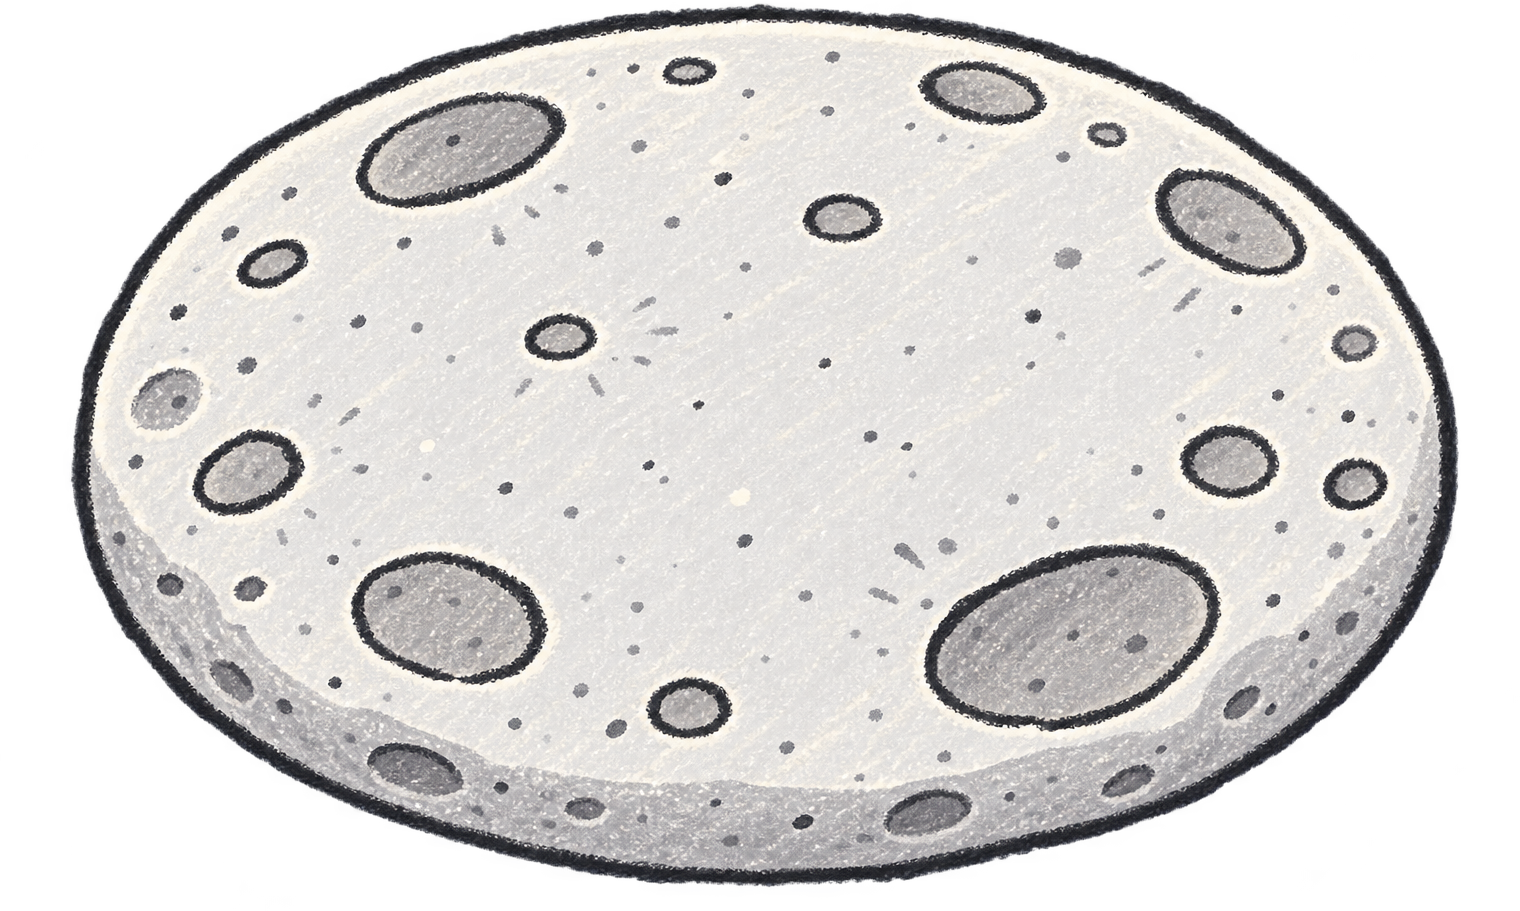
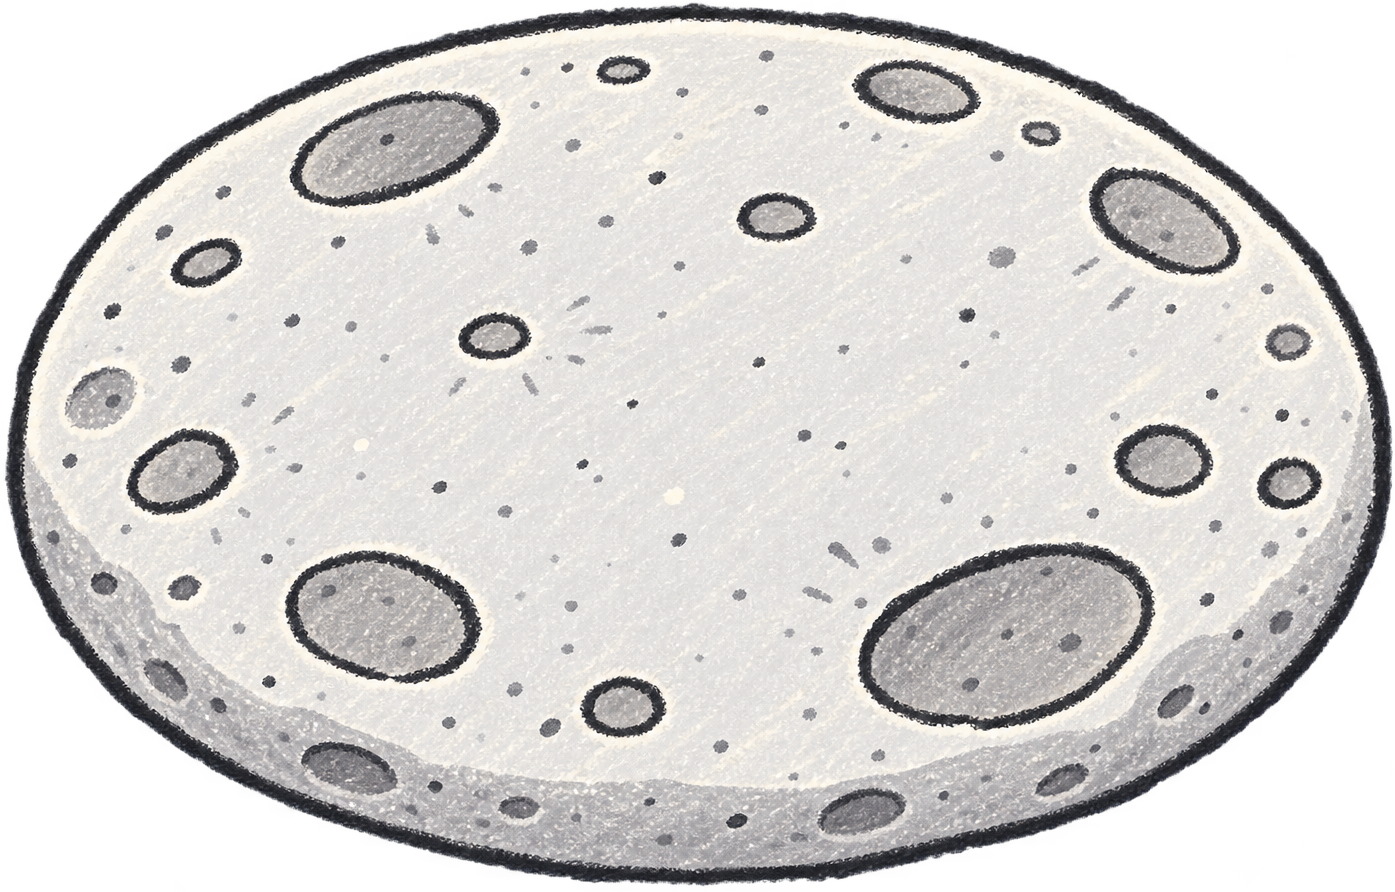
feat: Figma 기준 챕터 배치 반영

diff --git a/src/game/scenes/chapter/view.ts b/src/game/scenes/chapter/view.ts
@@ -1,11 +1,16 @@
-import { chapters, stageStatuses, type ChapterDefinition } from "../../stages";
-import { computeLayout } from "../../constellation/layout";
-import { renderConstellationSvg } from "../../constellation/render";
-import { createMoonDecor } from "../shared/moonDecor";
-import { createBackgroundStars } from "../shared/backgroundStars";
-import { createSceneTitle, createTitleStar } from "../shared/title";
-import styles from "./scene.module.css";
-import { backgroundUrl, chapterAssets, starNodeAssets } from "../../assets";
+import {
+  backgroundUrl,
+  chapterAssets,
+  chapterZodiacInactiveAssets,
+  starNodeAssets,
+} from "@/src/game/assets";
+import { computeLayout } from "@/src/game/constellation/layout";
+import { renderConstellationSvg } from "@/src/game/constellation/render";
+import { createBackgroundStars } from "@/src/game/scenes/shared/backgroundStars";
+import { createMoonDecor } from "@/src/game/scenes/shared/moonDecor";
+import { createSceneTitle, createTitleStar } from "@/src/game/scenes/shared/title";
+import styles from "@/src/game/scenes/chapter/scene.module.css";
+import { chapters, stageStatuses, type ChapterDefinition } from "@/src/game/stages";
 
 export function createChapterView(
   onMove: (offset: -1 | 1) => void,
@@ -100,25 +105,28 @@ function renderCard(
   card.tabIndex = enabled && chapter ? 0 : -1;
   card.setAttribute("aria-disabled", String(!enabled));
   card.setAttribute("aria-label", chapter ? `${chapter.sign} 챕터 선택` : "");
-  if (chapter) card.append(constellation(chapter, chapterIndex));
+  if (chapter) card.append(constellation(chapter, chapterIndex, enabled));
 }
-function constellation(chapter: ChapterDefinition, chapterIndex: number): SVGSVGElement {
+function constellation(
+  chapter: ChapterDefinition,
+  chapterIndex: number,
+  active: boolean,
+): SVGSVGElement {
   const layout = computeLayout(chapter.constellation, {
-    width: 450,
-    height: 600,
+    width: 478,
+    height: 560,
     padding: { top: 100, left: 40, right: 40, bottom: 230 },
-    emblemGap: 50,
-    labelGap: 45,
-    emblemSize: { width: 96, height: 80 },
+    emblemGap: 100,
+    emblemSize: { width: 110, height: 90 },
   });
   const svg = renderConstellationSvg(layout, {
     starUrl: starNodeAssets.gray,
-    starSize: 52,
-    lineClass: styles.line,
+    starSize: active ? 84 : 70,
+    lineClass: `${styles.line} ${active ? "" : styles.lineInactive}`,
   });
   const statuses = stageStatuses(chapterIndex);
   svg.querySelectorAll("image").forEach((star, index) => {
-    const cleared = statuses[index] === "cleared";
+    const cleared = active && statuses[index] === "cleared";
     star.setAttribute("href", cleared ? starNodeAssets.gold : starNodeAssets.gray);
     const glow = star.cloneNode() as SVGImageElement;
     glow.setAttribute("class", `${styles.glow} ${cleared ? styles.goldGlow : styles.grayGlow}`);
@@ -127,16 +135,14 @@ function constellation(chapter: ChapterDefinition, chapterIndex: number): SVGSVG
   svg.setAttribute("role", "img");
   svg.setAttribute("aria-label", `${chapter.sign} 별자리`);
   const emblem = document.createElementNS("http://www.w3.org/2000/svg", "image");
-  emblem.setAttribute("href", chapter.zodiacUrl);
+  emblem.setAttribute(
+    "href",
+    active ? chapter.zodiacUrl : chapterZodiacInactiveAssets[chapter.sign],
+  );
   emblem.setAttribute("x", String(layout.emblemAnchor.x));
   emblem.setAttribute("y", String(layout.emblemAnchor.y));
-  emblem.setAttribute("width", "96");
-  emblem.setAttribute("height", "80");
-  const name = document.createElementNS("http://www.w3.org/2000/svg", "text");
-  name.setAttribute("class", styles.name);
-  name.setAttribute("x", String(layout.labelAnchor.x));
-  name.setAttribute("y", String(layout.labelAnchor.y));
-  name.textContent = chapter.sign;
-  svg.append(emblem, name);
+  emblem.setAttribute("width", "110");
+  emblem.setAttribute("height", "90");
+  svg.append(emblem);
   return svg;
 }

diff --git a/src/game/assets.ts b/src/game/assets.ts
@@ -18,10 +18,10 @@ import bubbleNextUrl from "@/assets/button/button.bubble.webp";
 import decorStarSmallUrl from "@/assets/star/star.cross.small.webp";
 import decorStarMediumUrl from "@/assets/star/star.cross.medium.webp";
 import decorStarLargeUrl from "@/assets/star/star.cross.large.webp";
-import decorMoonUrl from "@/assets/moon/moon.circle.webp";
+import decorMoonUrl from "@/assets/moon/moon.eclipse.trimmed.webp";
 import decorMascotUrl from "@/assets/mascot/mascot.angle-135.webp";
-import { assetUrls } from "./features/presentation";
-import { chapters } from "./stages";
+import { assetUrls } from "@/src/game/features/presentation";
+import { chapters, type ZodiacSign } from "@/src/game/stages";
 
 export { backgroundUrl, plateButtonUrl, goalStarUrl };
 
@@ -45,6 +45,23 @@ export const chapterAssets = {
   arrowLeft: chapterArrowLeftUrl,
   arrowRight: chapterArrowRightUrl,
 } as const;
+
+export const chapterZodiacInactiveAssets: Record<ZodiacSign, string> = {
+  ARIES: new URL("@/assets/zodiac/zodiac.aries.state-inactive.webp", import.meta.url).href,
+  TAURUS: new URL("@/assets/zodiac/zodiac.taurus.state-inactive.webp", import.meta.url).href,
+  GEMINI: new URL("@/assets/zodiac/zodiac.gemini.state-inactive.webp", import.meta.url).href,
+  CANCER: new URL("@/assets/zodiac/zodiac.cancer.state-inactive.webp", import.meta.url).href,
+  LEO: new URL("@/assets/zodiac/zodiac.leo.state-inactive.webp", import.meta.url).href,
+  VIRGO: new URL("@/assets/zodiac/zodiac.virgo.state-inactive.webp", import.meta.url).href,
+  LIBRA: new URL("@/assets/zodiac/zodiac.libra.state-inactive.webp", import.meta.url).href,
+  SCORPIUS: new URL("@/assets/zodiac/zodiac.scorpio.state-inactive.webp", import.meta.url).href,
+  SAGITTARIUS: new URL("@/assets/zodiac/zodiac.sagittarius.state-inactive.webp", import.meta.url)
+    .href,
+  CAPRICORNUS: new URL("@/assets/zodiac/zodiac.capricorn.state-inactive.webp", import.meta.url)
+    .href,
+  AQUARIUS: new URL("@/assets/zodiac/zodiac.aquarius.state-inactive.webp", import.meta.url).href,
+  PISCES: new URL("@/assets/zodiac/zodiac.pisces.state-inactive.webp", import.meta.url).href,
+};
 
 export const stageSelectAssets = {
   backFrame: backFrameUrl,
@@ -72,6 +89,7 @@ export function allGameAssetUrls(): string[] {
       ...Object.values(clearAssets),
       ...Object.values(starNodeAssets),
       ...Object.values(chapterAssets),
+      ...Object.values(chapterZodiacInactiveAssets),
       ...Object.values(stageSelectAssets),
       ...Object.values(decorAssets),
       ...Object.values(assetUrls),

diff --git a/src/game/scenes/chapter/scene.module.css b/src/game/scenes/chapter/scene.module.css
@@ -6,26 +6,27 @@
   width: 100%;
 }
 .carousel {
-  height: 55.556%;
-  inset: 22.222% 0 auto;
+  height: 51.852%;
+  inset: 24.259% 0 auto;
   position: absolute;
 }
 .card {
-  aspect-ratio: 3 / 4;
   background: transparent;
   border: 0;
+  bottom: 0;
   cursor: pointer;
+  height: 100%;
   left: 50%;
   opacity: 0.8;
   padding: 0;
   position: absolute;
-  top: 50%;
-  transform: translate(-50%, -50%) scale(0.75);
+  transform: translateX(-50%) scale(0.80335);
+  transform-origin: 50% 100%;
   transition:
     left 750ms cubic-bezier(0.22, 0.7, 0.2, 1),
     opacity 750ms ease,
     transform 750ms cubic-bezier(0.22, 0.7, 0.2, 1);
-  width: 23.438%;
+  width: 24.896%;
 }
 .card:disabled {
   cursor: default;
@@ -33,26 +34,26 @@
   pointer-events: none;
 }
 .previous {
-  left: 20.833%;
+  left: 23.385%;
   opacity: 0.8;
-  transform: translate(-50%, -50%) scale(0.75);
+  transform: translateX(-50%) scale(0.80335);
 }
 .next {
-  left: 79.167%;
+  left: 76.615%;
   opacity: 0.8;
-  transform: translate(-50%, -50%) scale(0.75);
+  transform: translateX(-50%) scale(0.80335);
 }
 .current {
   opacity: 1;
-  transform: translate(-50%, -50%) scale(1);
+  transform: translateX(-50%) scale(1);
   z-index: 1;
 }
 .outLeft {
-  left: -15%;
+  left: -0.781%;
   opacity: 0;
 }
 .outRight {
-  left: 115%;
+  left: 100.781%;
   opacity: 0;
 }
 .card svg {
@@ -67,6 +68,10 @@
   stroke-linecap: round;
   stroke-width: 3;
 }
+.lineInactive {
+  filter: none;
+  stroke: #aeb9c2;
+}
 .glow {
   filter: blur(7px);
   pointer-events: none;
@@ -77,14 +82,6 @@
 .grayGlow {
   opacity: 0.35;
 }
-.name {
-  fill: #ffd866;
-  font-family: "온글잎 박다현체", monospace;
-  font-size: 36px;
-  font-weight: 700;
-  letter-spacing: 5px;
-  text-anchor: middle;
-}
 .arrow {
   background: transparent;
   border: 0;
@@ -94,7 +91,7 @@
   top: 50%;
   transform: translateY(-50%);
   transition: scale 420ms cubic-bezier(0.22, 0.7, 0.2, 1);
-  width: 1%;
+  width: 1.875%;
   z-index: 3;
 }
 .arrow img {
@@ -115,8 +112,8 @@
   scale: 1;
 }
 .left {
-  left: 33.333%;
+  left: 34.74%;
 }
 .right {
-  right: 33.333%;
+  left: 65.417%;
 }

diff --git a/src/game/scenes/shared/moonDecor.module.css b/src/game/scenes/shared/moonDecor.module.css
@@ -4,25 +4,25 @@
   position: absolute;
 }
 .moon {
-  bottom: -45%;
   height: auto;
-  left: -12%;
+  left: -33.823%;
   position: absolute;
-  width: 43%;
+  top: 76.481%;
+  width: 74.406%;
 }
 .shadow {
-  aspect-ratio: 2.4 / 1;
   background: rgb(20 28 36 / 38%);
   border-radius: 50%;
-  bottom: 12%;
   filter: blur(2px);
-  left: 14%;
+  height: 3.704%;
+  left: 5%;
   position: absolute;
-  width: 7.5%;
+  top: 81.944%;
+  width: 8.177%;
 }
 .mascot {
-  bottom: 13%;
-  left: 12%;
+  left: 17.135%;
   position: absolute;
-  width: 11%;
+  top: 57.13%;
+  width: 16.042%;
 }

diff --git a/src/game/scenes/start/scene.module.css b/src/game/scenes/start/scene.module.css
@@ -6,13 +6,13 @@
   width: 100%;
 }
 .lunar {
-  bottom: -53%;
+  bottom: -51.44%;
   left: 50%;
   max-width: none;
   pointer-events: none;
   position: absolute;
   transform: translateX(-50%);
-  width: 74.5%;
+  width: 68.37%;
 }
 .mascot {
   animation: float 2.8s ease-in-out infinite;
